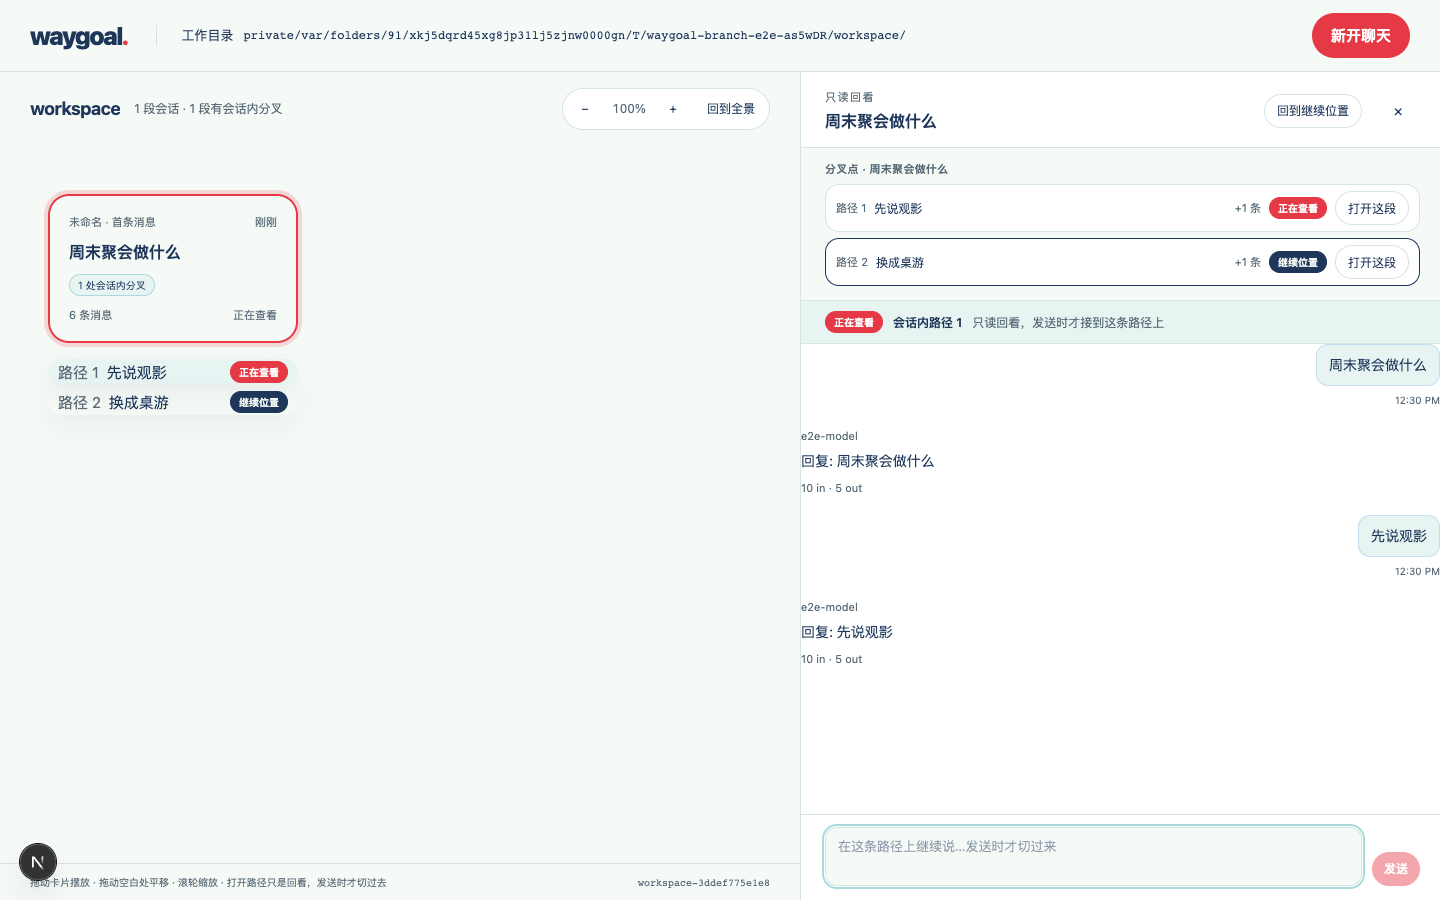
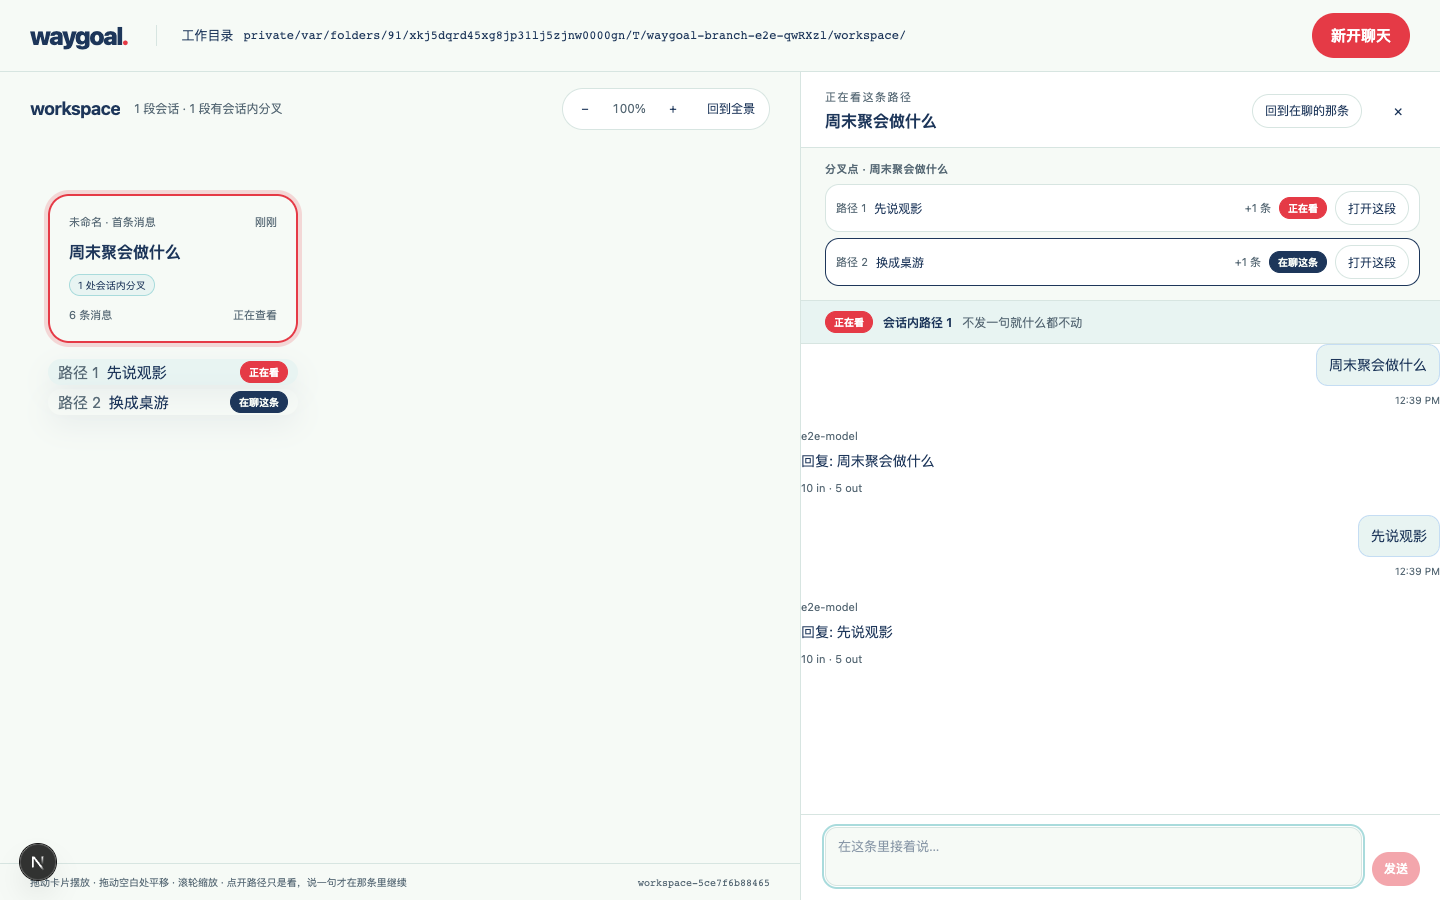
Drop 继续位置/查看位置 from the language, and the mode they implied (#3)
Pi's active leaf had been promoted into the product vocabulary as 继续位置
and 查看位置. Once a position is a noun in the language, the interface
grows a verb to move it — which is where 「从这里继续」 came from. Nobody
using this moves a position; they open a chat history and talk in it.

路径 now stands on its own: 一段可以直接接着聊的对话历史, several of
which share one session, only one being continued at a time — and the
term for two that run side by side is 真实分叉. The interface says the
same thing: 正在看 / 在聊这条 / 点开这段历史，直接接着说.

diff --git a/prototypes/pi-web/components/WaygoalCanvas.tsx b/prototypes/pi-web/components/WaygoalCanvas.tsx
@@ -224,7 +224,7 @@ export function WaygoalCanvas() {
           setViewing({ sessionId, entryId, leafId: choice?.leafId ?? null, label: "上次查看的位置" });
         }
         else {
-          setNotice("上次查看的位置在这段会话里已经找不到了，画布没有按标题绑定到别的历史，面板停在当前继续位置。");
+          setNotice("上次看的那条消息在这段会话里已经找不到了，画布没有按标题绑到别的历史，面板停在这段会话现在在聊的那条路径。");
           void patch({ lastViewedEntry: null });
         }
       } catch { /* the panel still opens at the continue position */ }
@@ -285,7 +285,7 @@ export function WaygoalCanvas() {
   );
 
   const busyReason = nodes.find(n => n.id === openSessionId)?.running
-    ? "这段会话正在运行。分叉和切换继续位置要等它结束，Waygoal 不打断正在进行的任务；查看不受影响。"
+    ? "这段会话正在运行。分叉和在别的路径里接着说都要等它结束，Waygoal 不打断正在进行的任务；看历史不受影响。"
     : null;
 
   const openNode = useCallback((node: WaygoalNode) => {
@@ -366,7 +366,7 @@ export function WaygoalCanvas() {
     } finally { setForkingEntryId(null); }
   }, [landOnFork]);
 
-  /** The one action that moves the agent: continue from an explicit position. */
+  /** The one action that moves the agent: continue this session in one path. */
   const continueAt = useCallback(async (sessionId: string, entryId: string): Promise<boolean> => {
     try {
       const res = await fetch(`/api/agent/${encodeURIComponent(sessionId)}`, {
@@ -376,17 +376,17 @@ export function WaygoalCanvas() {
       const body = await res.json() as { error?: string; data?: { cancelled?: boolean } };
       if (!res.ok) throw new Error(body.error);
       // Pi can refuse the move (an extension cancelled it, a summary aborted).
-      if (body.data?.cancelled) { setNotice("没有接到这条路径上，Pi 取消了这次切换。"); return false; }
+      if (body.data?.cancelled) { setNotice("没能接着这条聊，Pi 取消了这次切换。"); return false; }
       setViewing(null);
       setSelectedId(sessionId);
       setPanelKey(k => k + 1);
-      setNotice("已经接到这条路径上，其他路径仍然保留。");
+      setNotice("现在在这条路径里继续，其他路径都还留着。");
       await patch({ lastViewed: sessionId, lastViewedEntry: null });
       await loadTree(sessionId);
       await refresh(true);
       return true;
     } catch (e) {
-      setError(`没有接到这条路径上：${e instanceof Error ? e.message : String(e)}`);
+      setError(`没能接着这条聊：${e instanceof Error ? e.message : String(e)}`);
       return false;
     }
   }, [loadTree, patch, refresh]);
@@ -548,11 +548,11 @@ export function WaygoalCanvas() {
               style={{ left: selectedNode.position.x, top: selectedNode.position.y + chipTop + index * CHIP_HEIGHT, width: NODE_W }}
               onPointerDown={e => e.stopPropagation()}
               onClick={e => { e.stopPropagation(); viewPath(selectedNode.id, choice.entryId, `会话内路径 ${order + 1}`, choice.leafId); }}
-              title="打开这段：显示这条路径的历史，发送时才接到它后面">
+              title="点开这段历史，直接接着说">
               <span className="waygoal-chip-label">路径 {order + 1}</span>
               <span className="waygoal-chip-preview">{choice.preview}</span>
-              {viewing?.entryId === choice.entryId && <span className="waygoal-tag reading">正在查看</span>}
-              {choice.active && <span className="waygoal-tag continuing">继续位置</span>}
+              {viewing?.entryId === choice.entryId && <span className="waygoal-tag reading">正在看</span>}
+              {choice.active && <span className="waygoal-tag continuing">在聊这条</span>}
             </button>)}
             {snapshot && nodes.length === 0 && <div className="waygoal-empty" style={{ left: 0, top: 0 }}>
               <strong>这个目录还没有 Pi 会话。</strong>
@@ -560,16 +560,16 @@ export function WaygoalCanvas() {
             </div>}
           </div>
         </div>
-        <div className="waygoal-statusline"><span>拖动卡片摆放 · 拖动空白处平移 · 滚轮缩放 · 打开路径只是回看，发送时才切过去</span><span className="waygoal-id">{snapshot?.workspaceId}</span></div>
+        <div className="waygoal-statusline"><span>拖动卡片摆放 · 拖动空白处平移 · 滚轮缩放 · 点开路径只是看，说一句才在那条里继续</span><span className="waygoal-id">{snapshot?.workspaceId}</span></div>
       </section>
       {panelOpen && snapshot && <aside className="waygoal-panel" aria-label="讨论面板">
         <div className="waygoal-panel-head">
           {isMobile && <button type="button" className="waygoal-button outlined small" onClick={closePanel}>← 回到画布</button>}
           <div className="waygoal-panel-title">
-            <span className="waygoal-eyebrow">{viewing ? "只读回看" : panelSession ? (selectedNode?.running ? "正在运行" : "已有会话") : "新的会话"}</span>
+            <span className="waygoal-eyebrow">{viewing ? "正在看这条路径" : panelSession ? (selectedNode?.running ? "正在运行" : "已有会话") : "新的会话"}</span>
             <strong>{panelSession ? (selectedNode?.title ?? createdSession?.firstMessage ?? "会话") : "先写下第一句，发送后这段会话才会出现在画布上"}</strong>
           </div>
-          {viewing && <button type="button" className="waygoal-button outlined small" onClick={stopViewing}>回到继续位置</button>}
+          {viewing && <button type="button" className="waygoal-button outlined small" onClick={stopViewing}>回到在聊的那条</button>}
           {!isMobile && <button type="button" className="waygoal-icon" aria-label="关闭面板" onClick={closePanel}>×</button>}
         </div>
         {panelSession && <WaygoalPaths

diff --git a/prototypes/pi-web/components/WaygoalPathView.tsx b/prototypes/pi-web/components/WaygoalPathView.tsx
@@ -14,9 +14,9 @@ interface Props {
   /** Continuing or forking is refused while Pi is working on this session. */
   busyReason: string | null;
   forkingEntryId: string | null;
-  /** Send from here: the path becomes the continue position and the message
-    *  goes into it. Null when this position is not one to continue from — an
-    *  origin whose message was never recorded. */
+  /** Say something here: this path becomes the one the session is being
+    *  continued in, and the message goes into it. Null when this is not a path
+    *  to talk in — an origin whose message was never recorded. */
   onSend: ((text: string) => void) | null;
   onFork: (entryId: string) => void;
 }
@@ -39,7 +39,7 @@ export function WaygoalPathView({ sessionId, leafId, cwd, label, busyReason, for
   };
 
   // Opening a path is meant to be one click away from talking, so the composer
-  // takes focus. preventScroll: the history above must stay where it was read.
+  // takes focus. preventScroll: the history above must stay where it was left.
   useEffect(() => { composer.current?.focus({ preventScroll: true }); }, [leafId]);
 
   useEffect(() => {
@@ -66,9 +66,9 @@ export function WaygoalPathView({ sessionId, leafId, cwd, label, busyReason, for
 
   return <div className="waygoal-readonly">
     <div className="waygoal-readonly-bar">
-      <span className="waygoal-tag reading">正在查看</span>
+      <span className="waygoal-tag reading">正在看</span>
       <span className="waygoal-readonly-label">{label}</span>
-      <span className="waygoal-readonly-hint">{onSend ? "只读回看，发送时才接到这条路径上" : "只读回看，这里不会发送消息"}</span>
+      <span className="waygoal-readonly-hint">{onSend ? "不发一句就什么都不动" : "来源那边的历史，这里只看不发"}</span>
     </div>
     {busyReason && <p className="waygoal-readonly-note">{busyReason}</p>}
     <div className="waygoal-readonly-body">
@@ -89,11 +89,11 @@ export function WaygoalPathView({ sessionId, leafId, cwd, label, busyReason, for
     </div>
     {onSend && <div className="waygoal-readonly-composer">
       <textarea ref={composer} value={draft} onChange={e => setDraft(e.target.value)} rows={2}
-        placeholder={busyReason ?? "在这条路径上继续说…发送时才切过来"}
-        disabled={Boolean(busyReason)} aria-label="在这条路径上继续"
+        placeholder={busyReason ?? "在这条里接着说…"}
+        disabled={Boolean(busyReason)} aria-label="在这条路径里接着说"
         onKeyDown={e => { if (e.key === "Enter" && !e.shiftKey && !e.nativeEvent.isComposing) { e.preventDefault(); send(); } }} />
       <button type="button" className="waygoal-button action small" onClick={send} disabled={Boolean(busyReason) || !draft.trim()}
-        title={busyReason ?? "发送并把继续位置切到这条路径"}>发送</button>
+        title={busyReason ?? "发送；之后这段会话就在这条路径里继续"}>发送</button>
     </div>}
   </div>;
 }

diff --git a/prototypes/pi-web/components/WaygoalPaths.tsx b/prototypes/pi-web/components/WaygoalPaths.tsx
@@ -32,8 +32,8 @@ function OriginRow({ origin, onViewOrigin }: { origin: WaygoalNodeOrigin; onView
 }
 
 /** Where this discussion came from and which paths it splits into. Opening a
- *  path only displays it; sending from it is what makes it the path the next
- *  message goes into, so there is no separate switch action here. */
+ *  path just shows that history, the way a session list does; saying something
+ *  in it is what continues there, so there is no separate switch action. */
 export function WaygoalPaths({ origin, branchPoints, viewingEntryId, busyReason, loading, onViewOrigin, onView }: Props) {
   if (!origin && branchPoints.length === 0) {
     return loading ? null : <div className="waygoal-paths"><p className="waygoal-path-note">这段讨论还没有分叉。把鼠标停在自己发过的消息上，点「从这里分叉」，就会分出一条保留来源、可以独立继续的路径。</p></div>;
@@ -47,10 +47,10 @@ export function WaygoalPaths({ origin, branchPoints, viewingEntryId, busyReason,
           <span className="waygoal-path-order">路径 {order + 1}</span>
           <span className="waygoal-path-preview" title={choice.preview}>{choice.preview}</span>
           <span className="waygoal-path-steps">{choice.steps > 0 ? `+${choice.steps} 条` : "路径末端"}</span>
-          {choice.active && <span className="waygoal-tag continuing">继续位置</span>}
-          {viewingEntryId === choice.entryId && <span className="waygoal-tag reading">正在查看</span>}
+          {choice.active && <span className="waygoal-tag continuing">在聊这条</span>}
+          {viewingEntryId === choice.entryId && <span className="waygoal-tag reading">正在看</span>}
           <button type="button" className="waygoal-button outlined small" onClick={() => onView(choice)}
-            title="打开这条路径的历史；发送时才接到它后面">打开这段</button>
+            title="点开这段历史，直接接着说">打开这段</button>
         </li>)}
       </ul>
     </section>)}

diff --git a/docs/research/branch-navigation-results.md b/docs/research/branch-navigation-results.md
@@ -4,7 +4,7 @@
 
 ## 结论
 
-分叉、回看和继续三件事在真实 Pi 数据上分开了：会话内分支读自实际 Pi tree，不伪造会话文件；跨会话 fork 调用 Pi 原生 `fork`，并在分叉发生的当下记下来源会话与来源消息；只读回看走已有的历史读取接口，不调用会切换活动叶子的树导航，也不新增消息；在这条路径上发送消息才移动活动路径，发送本身就是那次明确选择，没有单独的确认步骤。刷新与宿主重启后来源和最近查看位置都还在；记录缺失时明确提示，不按相似标题绑到另一段历史。
+分叉、回看和继续三件事在真实 Pi 数据上分开了：会话内分支读自实际 Pi tree，不伪造会话文件；跨会话 fork 调用 Pi 原生 `fork`，并在分叉发生的当下记下来源会话与来源消息；只读回看走已有的历史读取接口，不调用会切换活动叶子的树导航，也不新增消息；在这条路径上发送消息才移动活动路径，发送本身就是那次明确选择，没有单独的确认步骤。刷新与宿主重启后来源和上次看的那条都还在；记录缺失时明确提示，不按相似标题绑到另一段历史。
 
 ## 实现摘要
 
@@ -12,7 +12,7 @@
 - 读取适配：[lib/waygoal-tree.ts](../../prototypes/pi-web/lib/waygoal-tree.ts) 优先用进程内活着的 `AgentSession` 的 `SessionManager`（Pi 的活动叶子只在内存里），否则按文件打开并按 `mtime + size` 缓存。读不出来的会话被略过，而不是当成「没有分支」。
 - 接口：`GET /api/waygoal/session/[id]?entry=` 返回该会话的分叉点、各路径叶子与活动叶子；带 `entry` 时还回答这个位置在这段会话里是否仍然存在。全程只读，不做 `navigate_tree`。画布快照 `GET /api/waygoal` 增加每个节点的分叉点数量、活动叶子与来源。
 - 来源记录：客户端在真实 fork 成功后立刻 `PATCH /api/waygoal { origin }` 写下来源会话与来源条目。记录不完整或自指的来源直接丢弃；没有记录时退回 Pi header 的 `parentSession`，只知道来源会话、不知道来源消息，界面照实说明。
-- 界面：面板顶部把「正在查看」和「继续位置」分成两个标记，每条路径只有「打开这段」一个按钮；打开后是这条路径的完整历史加一个输入框，在这里发送就同时移动继续位置并把消息落到这条路径上。画布节点上有「分叉自「…」」和「N 处会话内分叉」标记，选中节点下方列出会话内路径，跨会话来源用虚线连到来源节点。运行中沿用 Pi 的限制，分叉按钮与回看输入框置灰，不静默打断任务。
+- 界面：面板顶部把「正在看」和「在聊这条」分成两个标记，每条路径只有「打开这段」一个按钮；打开后是这条路径的完整历史加一个输入框，在这里说一句，这段会话就转到这条路径里继续，消息也落在这条上。画布节点上有「分叉自「…」」和「N 处会话内分叉」标记，选中节点下方列出会话内路径，跨会话来源用虚线连到来源节点。运行中沿用 Pi 的限制，分叉按钮与回看输入框置灰，不静默打断任务。
 - 只读回看复用 pi-web 已有的 `GET /api/sessions/[id]/context?leafId=`，用 `MessageView` 渲染，不接 ChatWindow 的 `handleLeafChange`（那条路会真的导航）。
 
 ## 验证
@@ -23,14 +23,14 @@
 
 - 一段普通会话没有分支；用 Pi 自己的「Edit from here」分出第二个方向后，真实 Pi tree 里是一个分叉点、两条路径，而不是两个会话文件；共享的那条消息就是分叉点。
 - 画布把这段会话标为有会话内分叉并列出两条路径，标出当前从哪条继续。
-- 点「打开这段」读兄弟路径：假模型没有收到请求，会话文件没有增加条目，活动叶子没有移动，面板同时显示「正在查看」和「继续位置」且指向不同路径。
-- 刷新后回到同一个查看位置，仍然没有发送。
-- 在打开的这条路径上发送一句：活动路径移到这条路径，另一条不再是继续位置；整个过程只多出一条用户消息——切换本身不产生消息；这条消息在真实 jsonl 里沿 `parentId` 回溯确实落在所选路径上，没有落到另一条；被放弃的那条路径仍然保存；这次请求的上下文里没有兄弟路径的内容。
+- 点「打开这段」读兄弟路径：假模型没有收到请求，会话文件没有增加条目，活动叶子没有移动，面板同时显示「正在看」和「在聊这条」且指向不同路径。
+- 刷新后回到同一段历史，仍然没有发送。
+- 在打开的这条路径上发送一句：活动路径移到这条路径，另一条不再是被继续的那条；整个过程只多出一条用户消息——切换本身不产生消息；这条消息在真实 jsonl 里沿 `parentId` 回溯确实落在所选路径上，没有落到另一条；被放弃的那条路径仍然保存；这次请求的上下文里没有兄弟路径的内容。
 - 从另一条路径发送时同样接在它的叶子后面，而不是正在显示的那条消息前面，发出去的正文也还是输入的那句（Pi 对用户条目会把叶子移到父条目并把正文放回输入框，用显示的条目就会两样都错）。
 - 在消息上做真实 fork：新会话是另一个 Pi 会话文件，来源记录同时含来源会话与来源消息，原路径两条分支都没有被改动，画布画出这条来源连线。
 - 从 fork 点「回到来源这条消息」只读打开来源，没有发送。
-- 停止并重启宿主后来源与查看位置都还在，没有发送、没有新增条目。
-- 把最近查看位置改成不存在的条目后刷新，界面明确提示找不到，不绑定到另一段历史。
+- 停止并重启宿主后来源与上次看的那条都还在，没有发送、没有新增条目。
+- 把上次看的那条改成不存在的条目后刷新，界面明确提示找不到，不绑定到另一段历史。
 - 无页面脚本或控制台错误。
 
 证据：[检查记录](prototype-evidence/branches/checks.json)与截图 `prototype-evidence/branches/01–07`。同时通过全项目 TypeScript 检查和改动文件的 ESLint。全量单元测试 954/958 通过，其余 4 个文件（`lib/rpc-manager-*.test.mjs`、`lib/rpc-session-info.test.mjs`）在本次改动前的提交 `f9faba2` 上以同样的 `Cannot find module '@/lib/skill-lock'` 失败，属于上游既有问题。
@@ -66,7 +66,7 @@
 - 多进程同时写同一 `canvas.json` 仍未处理（同票 #2）。
 - 运行中沿用 Pi 的限制（不能 clone/fork），界面只是把按钮置灰并说明原因，没有做排队。
 - 草稿语义按操作区分：Pi 自己的「从此处编辑」和 fork 仍由 pi-web 处理，正文照旧回到输入框；回看路径里的输入框是另一份草稿，不发送就不影响任何路径。
-- 分叉与返回的过渡沿用已有的画布平移和面板出现动画（都受 `prefers-reduced-motion` 约束），没有为这一步单做新的过渡；定位主要靠来源连线、节点标记和「正在查看 / 继续位置」两个标签。
+- 分叉与返回的过渡沿用已有的画布平移和面板出现动画（都受 `prefers-reduced-motion` 约束），没有为这一步单做新的过渡；定位主要靠来源连线、节点标记和「正在看 / 在聊这条」两个标签。
 
 ## 代码审查后的修正
 
@@ -77,3 +77,5 @@
 试跑之后按使用者的反馈砍掉了「从这里继续」这个按钮。原来一条路径要点两下（先「只看这段」，再「从这里继续」），而使用者要的就是「点开这段历史，直接接着聊」，跟 pi-web 里切换会话历史的手感一样。票据 AC3 那句「明确继续才切换活动路径」被读窄成了一个显式按钮，其实发送本身就已经是明确的选择。
 
 现在只有一个入口：「打开这段」显示这条路径的完整历史（读到它的叶子，看到的就是消息会接在后面的内容），底部是一个输入框；不发送什么都不动，发送时先把活动路径移到这条路径的叶子，再把消息送进去。移动失败（Pi 返回 `cancelled` 或接口出错）就不发送，消息不会落到刚离开的那条路径上。e2e 相应改成用这个输入框发送来证明切换，检查数从 24 变成 26。
+
+同一个原因也改了词表：`CONTEXT.md` 里的「继续位置」「查看位置」两条被删掉。它们是 Pi 活动叶子的说法，不是用户世界里的东西；词表里一旦有了「位置」这个名词，界面就会长出一个搬动它的按钮。现在只留「路径」——一段可以直接接着聊的对话历史，点开哪条就在哪条里说话；需要两条同时各聊各的，那是真实分叉。界面文案也照这个改了（「正在看」「在聊这条」「点开这段历史，直接接着说」）。

diff --git a/README.md b/README.md
@@ -91,7 +91,7 @@ npm run dev
 - Skills：进程内 Pi extension 在 `input` 事件按 Pi 自己的解析规则检查 `/skill:` 名称，名单来自该会话自己的 resource loader；缺少时通过 Pi 的通知渠道反馈并拦截这条消息，已安装 skill 按 Pi 原有方式展开。
 - 无障碍：节点是按钮，Tab/Enter 打开，方向键微调位置，画布焦点下方向键平移、`+`/`-` 缩放、`0` 回到全景、Esc 关闭面板；窄屏面板全屏并有「回到画布」。
 - 分叉与路径：分叉点和各条路径读自真实 Pi tree，会话内的分支不伪造成独立会话文件。位置标识是「会话 + 条目」，因为 Pi 的 fork 会把条目 id 复制进新文件。跨会话分叉调用 Pi 原生 `fork`，并在分叉当下记下来源会话与来源消息；只有 Pi header 可依据时，只说得出来源会话。
-- 回看与继续：回看走只读历史读取，不调用会切换活动路径的树导航，也不新增消息；在这条路径上发送消息才移动活动路径，消息本身就落在所选路径上，没有额外的确认步骤。查看位置和继续位置在界面上分开显示，刷新和宿主重启后都保留；记录里的位置找不到时明确提示，不按相似标题绑到另一段历史。
+- 回看与继续：回看走只读历史读取，不调用会切换活动路径的树导航，也不新增消息；在这条路径上发送消息才移动活动路径，消息本身就落在所选路径上，没有额外的确认步骤。界面上分开标出「正在看」的是哪条、「在聊」的是哪条，刷新和宿主重启后都保留；记录里的那条消息找不到时明确提示，不按相似标题绑到另一段历史。
 
 尚未处理：工作区切换界面、多画布、手动分组与连线、分支标题、票据挂载、会话重命名入口、多进程同时写同一画布记录。
 

diff --git a/docs/design/canvas-navigation-and-states.md b/docs/design/canvas-navigation-and-states.md
@@ -50,7 +50,7 @@
 - **打开票据**：看问题、状态和票据下面的会话。
 - **尚无会话**：提供“开始讨论”，用户点击后按需创建关联会话。Wayfinder 票据可准备对应调用和准确票据引用，由用户发送；查看或展开本身不发送消息。
 - **已有会话**：提供继续讨论入口；有多个会话或分支时展开选择，不凭票据状态替用户选定路径。
-- **收起票据**：收起下层讨论，票据仍留在画布，保留讨论数量和可识别的展开入口；收起不停止会话或改变继续位置。
+- **收起票据**：收起下层讨论，票据仍留在画布，保留讨论数量和可识别的展开入口；收起不停止会话，也不改变这段会话正在哪条路径里继续。
 
 体验样例：#12“确定活动形式”最初没有会话；用户从票下开始讨论，随后从一条消息分别探索“观影”和“桌游”。两条方向仍在同一张票下。票与票之间表达依赖，会话之间表达分叉；分支不各自获得票据完成状态，结束聊天也不代表原票解决。
 
